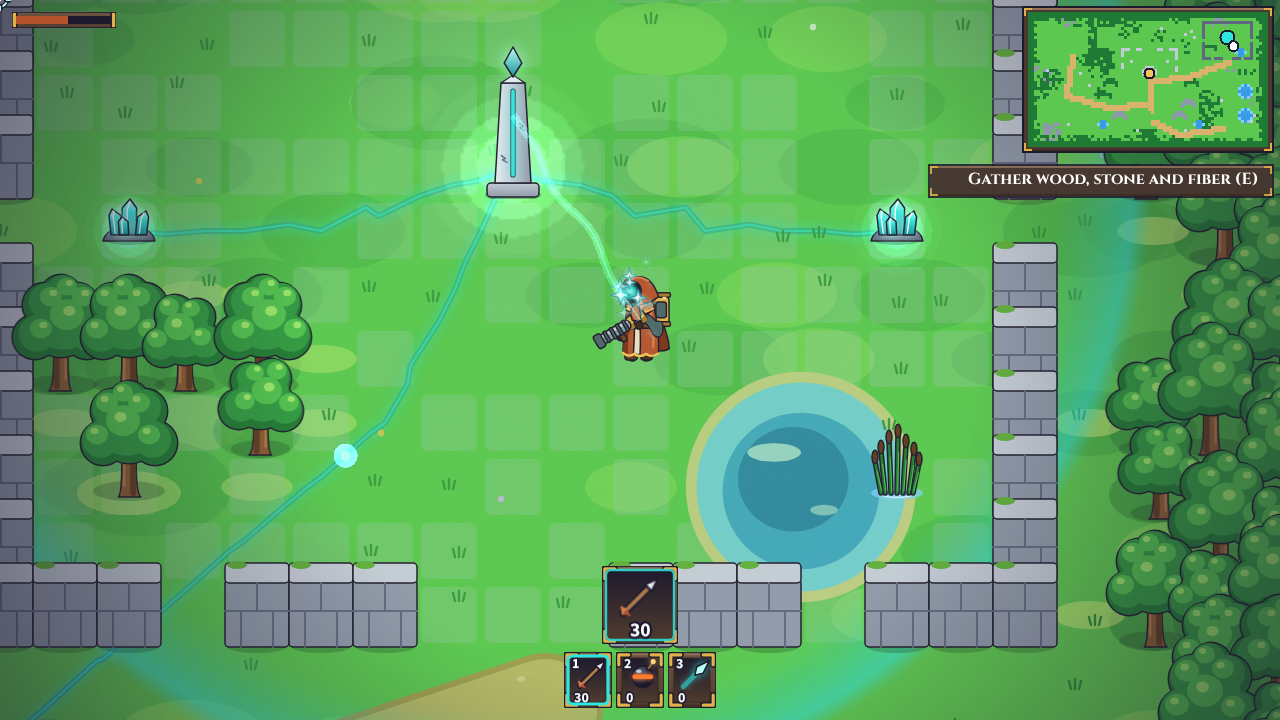
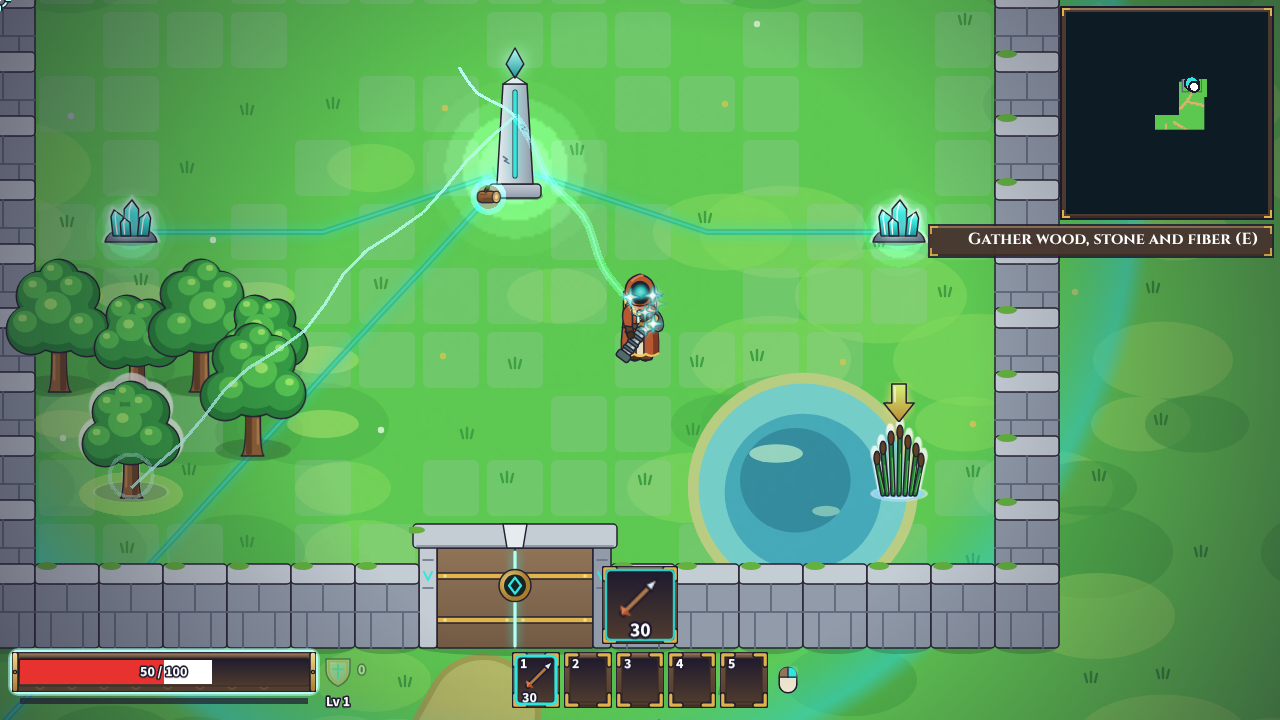
Retake 030/05 for the moved, walled shrine; record the older-shots fix
Claude-Session: https://claude.ai/code/session_019ig8gw5L4yavYF6tvwkS5C

diff --git a/docs/backlog.md b/docs/backlog.md
@@ -93,4 +93,5 @@ Fixes to built behaviour that need no design. Each goes on its own branch and PR
 - Fixed in 047 (the grid replaced the panel): the inventory panel's Wood row drew "3 at risk" over "home 5" (found in review of 045, 045.11; on main since 031). 047 replaces the panel with the grid inventory, so check it there.
 - The Stages panel showed "0/4 arrows" while the player had arrows in an intake entrance and in the inventory (Shaun, 2026-10-20). Fixed in InsanityWolfz/Pipeline#27: the panel counts carried rounds plus the intake entrances (Shaun chose option A, 2026-10-20).
 - 037's Shatterpoint review shot is broken on main (found in 054's review); retake or fix the shot's staging.
+- Fixed on `claude/fix-old-review-shots`: older review-shot specs failed on main after 053's round world. 032's landmark walks (quarry, old-grove, ley-grotto, north-spring) stopped with "could not reach": the tile just below some areas is solid with no open neighbour, or cut off from the player's side, so the path search found nothing. The walk now goes to the nearest tile reachable from the player; 032/01, 02, 03 and 09 retaken. 030's and 031's shots already pass on main since 055's door helpers restaged them; 030/05 (the shrine's safe zone, moved in 053 and walled in 055) retaken.
 - The sandbox loadout panel's "−" button (setRound) may not cycle an entrance's ammo backwards (found in 054's review); check and fix.

diff --git a/docs/progress.md b/docs/progress.md
@@ -2,6 +2,11 @@
 
 Newest entry first.
 
+## 2026-10-21: Bug: older review shots on the round map
+**Changed:** on `claude/fix-old-review-shots`, 032's landmark shots walk to the nearest tile the player can reach below each landmark (the fixed spot was solid or cut off on the round map for the Quarry, Old Grove, Ley Grotto and North Spring). Retook 032/01, 02, 03, 09, and 030/05 (the shrine moved and got its walls). 030's and 031's specs already passed on main after 055; nothing to change there. `npm run check` passes; landmarksShots, healingShots and hudInventoryShots pass with REVIEW_SHOTS=1 (26/26).
+
+**Next:** Shaun merges the PR.
+
 ## 2026-10-21: 055 merged
 **Changed:** Shaun merged 055 (boss doors and the rimestone pylon: both arenas walled with a door, E in and out, the Frozen Grotto's rimestone pylon), InsanityWolfz/Pipeline#48.
 
